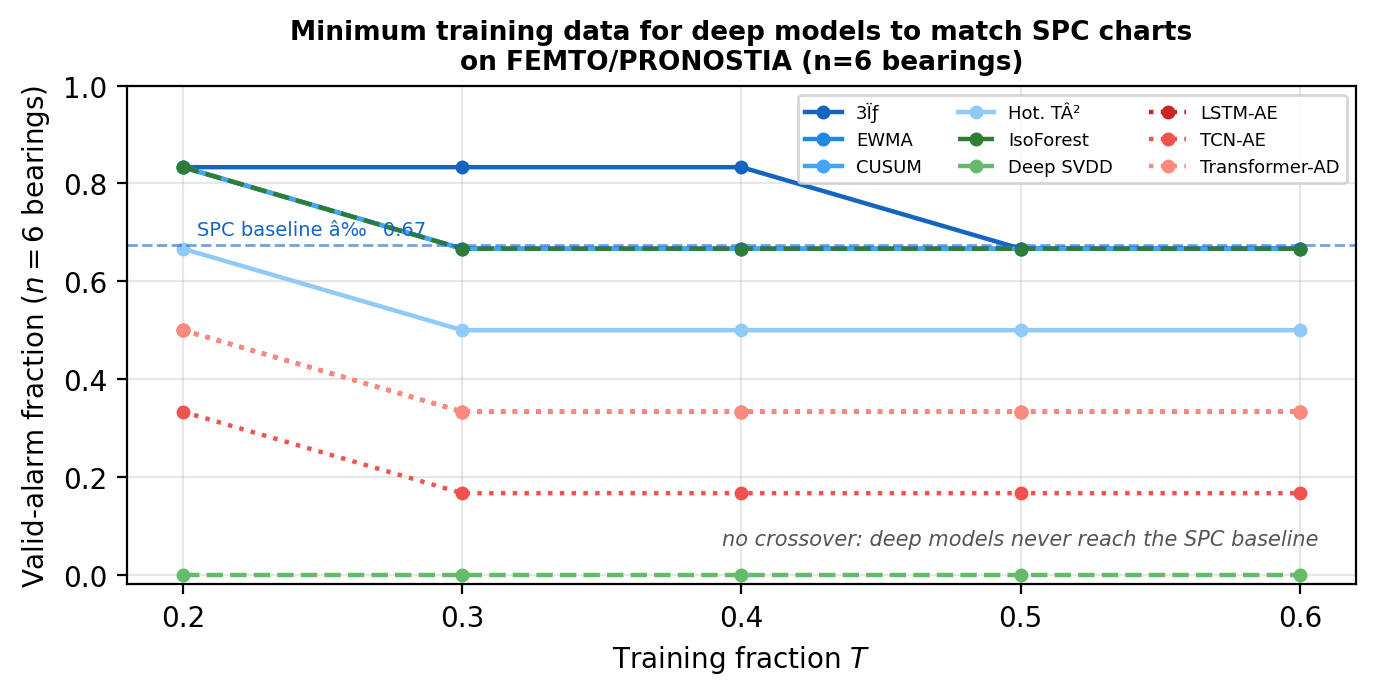
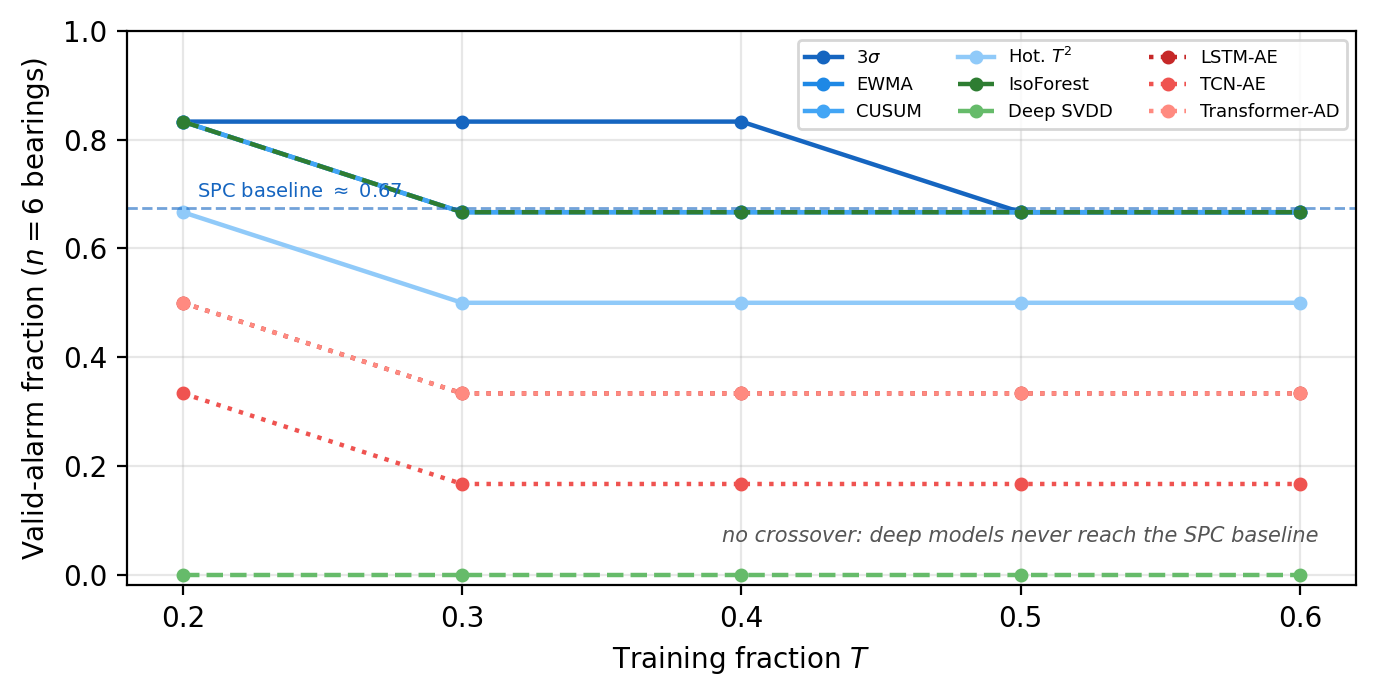
fix(figures): RD-11..RD-14 - mojibake, in-plot title, doubled parenthesis
Root cause per the revision register: label strings were emitted as UTF-8
and re-read as cp1252, not a font problem. Switched the affected display
labels to matplotlib mathtext, which removes the encoding dependency
entirely. Dict keys are data keys matching the benchmark CSV method
column and are unchanged.

Figure 2 (fig_crossdataset):
- y-axis Delta and minus sign now mathtext (were 'i"' and 'a^')
- tick labels 3-sigma and Hot. T^2 now mathtext (were '3lf', 'Hot. TA2')
- legend doubled parenthesis fixed: ONGC (n=1, case study)

Figure 10 (fig_mintrain):
- legend 3-sigma and Hot. T^2 now mathtext
- 'SPC baseline ~ 0.67' annotation now mathtext
- in-plot title deleted: it asserted deep models 'match SPC charts',
  which the caption denies (no crossover). Caption carries it, per
  IJPHM house style.

Verified by rendering: figure1 and fig_sweep regenerate byte-identical,
confirming no collateral change. All six figures inspected for axis
labels, tick labels, legends and in-plot annotations; only these two
were affected.

diff --git a/paper/make_figures.py b/paper/make_figures.py
@@ -116,12 +116,17 @@ def fig_crossdataset():
 
     methods = ["3σ Rule (σ=3.0)", "EWMA (λ=0.2, k=3.0)", "CUSUM (k=0.5, h=5.0)",
                "Hotelling T²", "Isolation Forest", "Deep SVDD", "RMS-Trend (kσ)"]
-    short = {"3σ Rule (σ=3.0)": "3σ", "EWMA (λ=0.2, k=3.0)": "EWMA",
-             "CUSUM (k=0.5, h=5.0)": "CUSUM", "Hotelling T²": "Hot. T²",
+    # Display labels use mathtext, not literal Greek/superscript characters: the
+    # literals were emitted as UTF-8 and re-read as cp1252, which is what produced
+    # the "3ĺf" / "Hot. TÂ²" mojibake (RD-11..RD-14). Mathtext removes the
+    # encoding dependency entirely. The dict KEYS are data keys matching the
+    # method column of the benchmark CSVs — do not touch them.
+    short = {"3σ Rule (σ=3.0)": r"$3\sigma$", "EWMA (λ=0.2, k=3.0)": "EWMA",
+             "CUSUM (k=0.5, h=5.0)": "CUSUM", "Hotelling T²": r"Hot. $T^2$",
              "Isolation Forest": "IsoForest", "Deep SVDD": "D.SVDD",
              "RMS-Trend (kσ)": "RMS-trend"}
     datasets = ["IMS", "ONGC", "XJTU-SY", "FEMTO", "Ferrara"]
-    n_label = {"IMS": "n=3", "ONGC": "n=1 (case study)", "XJTU-SY": "n=10",
+    n_label = {"IMS": "n=3", "ONGC": "n=1, case study", "XJTU-SY": "n=10",
                "FEMTO": "n=6", "Ferrara": "n=6"}
     colors = {"IMS": "#E91E63", "ONGC": "#1565C0", "XJTU-SY": "#2E7D32",
               "FEMTO": "#F57F17", "Ferrara": "#6A1B9A"}
@@ -154,7 +159,8 @@ def fig_crossdataset():
     ax.axhline(0, color="black", linewidth=0.8)
     ax.set_xticks(x)
     ax.set_xticklabels([short[m] for m in methods], fontsize=8)
-    ax.set_ylabel("Median run-level lead-time Δ\n(aggregate − decimate), h")
+    ax.set_ylabel("Median run-level lead-time $\\Delta$\n"
+                  "(aggregate $-$ decimate), h")
     ax.set_title("Aggregation vs decimation across datasets (run-level; none significant)",
                  fontsize=9.5, fontweight="bold")
     ax.legend(fontsize=7.5)
@@ -186,8 +192,9 @@ def fig_training_sweep():
         "lstm_ae": ("deep recon.", "#C62828"), "tcn": ("deep recon.", "#EF5350"),
         "transformer_ad": ("deep recon.", "#FF8A80"),
     }
-    labels = {"three_sigma": "3σ", "ewma": "EWMA", "cusum": "CUSUM",
-              "hotelling_t2": "Hot. T²", "isolation_forest": "IsoForest",
+    # Mathtext, not literal Greek/superscripts — see the note in fig_crossdataset.
+    labels = {"three_sigma": r"$3\sigma$", "ewma": "EWMA", "cusum": "CUSUM",
+              "hotelling_t2": r"Hot. $T^2$", "isolation_forest": "IsoForest",
               "deep_svdd": "Deep SVDD", "lstm_ae": "LSTM-AE", "tcn": "TCN-AE",
               "transformer_ad": "Transformer-AD"}
 
@@ -206,8 +213,8 @@ def fig_training_sweep():
     if not spc.empty:
         base = float(spc["valid_frac"].mean())
         ax.axhline(base, color="#1565C0", linestyle="--", linewidth=1.0, alpha=0.6)
-        ax.text(0.205, base + 0.02, f"SPC baseline ≈ {base:.2f}", fontsize=7,
-                color="#1565C0")
+        ax.text(0.205, base + 0.02, "SPC baseline $\\approx$ %.2f" % base,
+                fontsize=7, color="#1565C0")
     ax.text(0.50, 0.06, "no crossover: deep models never reach the SPC baseline",
             fontsize=7.5, style="italic", ha="center", color="#555555")
 
@@ -216,8 +223,9 @@ def fig_training_sweep():
     ax.set_xlim(0.18, 0.62)
     ax.set_ylim(-0.02, 1.0)
     ax.set_xticks([0.2, 0.3, 0.4, 0.5, 0.6])
-    ax.set_title("Minimum training data for deep models to match SPC charts\n"
-                 "on FEMTO/PRONOSTIA (n=6 bearings)", fontsize=9.5, fontweight="bold")
+    # No in-plot title (RD-11..RD-14): the old title asserted the deep models
+    # "match SPC charts", which the LaTeX caption correctly denies — there is no
+    # crossover. The caption carries the title; that is IJPHM house style.
     ax.legend(fontsize=6.5, ncol=3, loc="upper right")
     ax.grid(alpha=0.3)
     plt.tight_layout()
